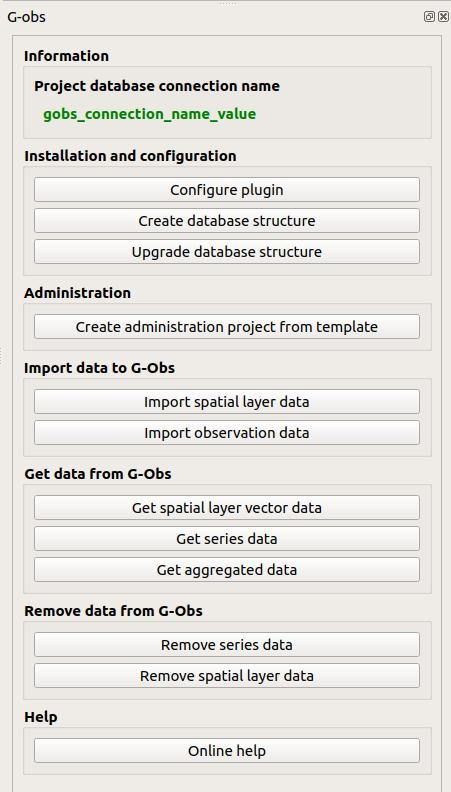
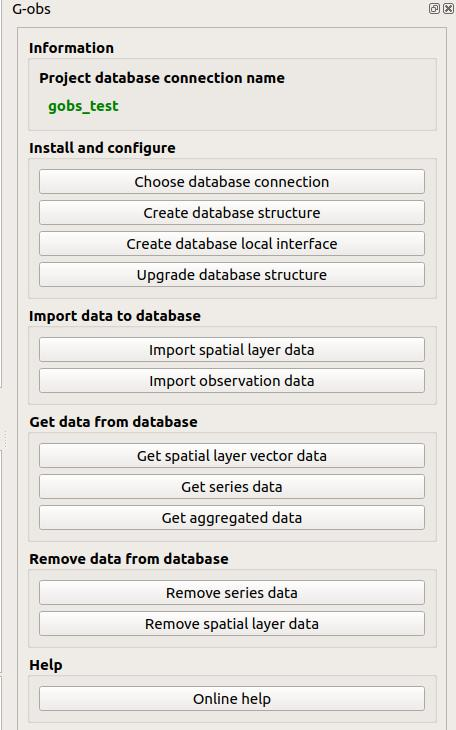
Algorithms - rename administration project creator and reorganize dock buttons

Changed region(s): [[0.0, 0.0, 0.9313, 1.0], [0.9313, 0.0, 1.0, 0.0301]]

diff --git a/docs/admin_guide/index.html b/docs/admin_guide/index.html
@@ -16,7 +16,7 @@
  <p><a href="../">Up</a></p>
 <p><a href="./index.html">Back</a></p><div class="toc"><span class="toctitle">Table of content</span><ul>
 <li><a href="#introduction">Introduction</a></li>
-<li><a href="#create-your-administration-project">Create your administration project</a></li>
+<li><a href="#create-your-database-local-interface">Create your database local interface</a></li>
 <li><a href="#edit-the-g-obs-database-metadata">Edit the G-Obs database metadata</a><ul>
 <li><a href="#actor_category">actor_category</a></li>
 <li><a href="#actor">actor</a></li>
@@ -39,7 +39,7 @@
 </ul>
 <p>See the (documentation on these concepts)(../concepts/).</p>
 <p>To go on, you must first have installed and configured the G-Obs plugin for QGIS Desktop. See the doc <a href="../installation/">G-Obs installation and configuration</a></p>
-<h2 id="create-your-administration-project">Create your administration project</h2>
+<h2 id="create-your-database-local-interface">Create your database local interface</h2>
 <p>This algorithm will create a <strong>new QGIS project file</strong> for G-Obs administration purpose.</p>
 <p>The generated QGIS project must then be opened by the administrator to create the needed metadata by using QGIS editing capabilities (actors, spatial layers information, indicators, etc.)</p>
 <p>Parameters:</p>
@@ -47,7 +47,7 @@
 <li><code>PostgreSQL connection to G-Obs database</code>: name of the database connection you would like to use for the new QGIS project.</li>
 <li><code>QGIS project file to create</code>: choose the output file destination.</li>
 </ul>
-<p><img alt="Create administration project" src="../media/gobs_create_administration_project_from_template.jpg"></p>
+<p><img alt="Create administration project" src="../media/gobs_create_database_local_interface.jpg"></p>
 <h2 id="edit-the-g-obs-database-metadata">Edit the G-Obs database metadata</h2>
 <p>The <strong>administration project</strong> created beforehand will allow the administrator to <strong>create, modify and delete metadata</strong> in the G-Obs database. As an administrator, you must open this project with QGIS.</p>
 <p>Be sure you have a working connection between your computer and the database server.</p>

diff --git a/docs/installation/index.html b/docs/installation/index.html
@@ -42,7 +42,7 @@
 <li>open QGIS <strong>Plugin manager</strong> (menu Plugins)</li>
 <li>in the <strong>Parameters</strong> tab, add a new plugin repository name <strong>G-Obs</strong> with the URL: <a href="https://github.com/3liz/qgis-gobs-plugin/releases/latest/download/plugins.xml">https://github.com/3liz/qgis-gobs-plugin/releases/latest/download/plugins.xml</a></li>
 </ul>
-<p><img alt="G-Obs dock panel" src="../media/gobs_install_plugin_1.jpg"></p>
+<p><img alt="G-Obs install plugin" src="../media/gobs_install_plugin.png"></p>
 <ul>
 <li>In the <strong>All</strong> tab, search for the word <code>obs</code> and install the <strong>G-Obs</strong> plugin.</li>
 </ul>

diff --git a/gobs/processing/algorithms/create_database_local_interface.py b/gobs/processing/algorithms/create_database_local_interface.py
@@ -8,19 +8,19 @@ from qgis.core import (
     QgsProcessingParameterFileDestination,
     QgsProcessingOutputString,
     QgsProcessingOutputNumber,
+    QgsExpressionContextUtils,
 )
 
 from gobs.qgis_plugin_tools.tools.i18n import tr
 from gobs.qgis_plugin_tools.tools.algorithm_processing import BaseProcessingAlgorithm
-from gobs.qgis_plugin_tools.tools.resources import plugin_path
 
 from .tools import (
     getPostgisConnectionList,
-    getPostgisConnectionUriFromName,
+    createAdministrationProjectFromTemplate,
 )
 
 
-class CreateAdministrationProjectFromTemplate(BaseProcessingAlgorithm):
+class CreateDatabaseLocalInterface(BaseProcessingAlgorithm):
 
     CONNECTION_NAME = 'CONNECTION_NAME'
     PROJECT_FILE = 'PROJECT_FILE'
@@ -29,10 +29,10 @@ class CreateAdministrationProjectFromTemplate(BaseProcessingAlgorithm):
     OUTPUT_STRING = 'OUTPUT_STRING'
 
     def name(self):
-        return 'create_administration_project_from_template'
+        return 'create_database_local_interface'
 
     def displayName(self):
-        return tr('Create administration project')
+        return tr('Create database local interface')
 
     def group(self):
         return tr('Administration')
@@ -103,43 +103,42 @@ class CreateAdministrationProjectFromTemplate(BaseProcessingAlgorithm):
         # Check that the connection name has been configured
         connection_name = parameters[self.CONNECTION_NAME]
         if not connection_name:
-            return False, tr('You must use the "Configure G-obs plugin" alg to set the database connection name')
+            return False, tr(
+                'You must use the "Configure G-obs plugin" alg to set the database connection name'
+            )
 
         # Check that it corresponds to an existing connection
         if connection_name not in getPostgisConnectionList():
             return False, tr('The configured connection name does not exists in QGIS')
 
-        return super(CreateAdministrationProjectFromTemplate, self).checkParameterValues(parameters, context)
+        # Check if the target project file ends with qgs
+        project_file = self.parameterAsString(parameters, self.PROJECT_FILE, context)
+        if not project_file.endswith('.qgs'):
+            return False, tr('The QGIS project file name must end with extension ".qgs"')
+
+        # Check if the current project is an administration project
+        # and if it is already configured for the chosen connection name
+        p_connection_name = QgsExpressionContextUtils.projectScope(context.project()).variable('gobs_connection_name')
+        admin_project = QgsExpressionContextUtils.projectScope(context.project()).variable('gobs_is_admin_project')
+        if admin_project == 'yes' and connection_name == p_connection_name:
+            return False, tr(
+                'The current QGIS project is already an administration project '
+                'configured for the chosen database connection'
+            )
+
+        return super(CreateDatabaseLocalInterface, self).checkParameterValues(parameters, context)
 
     def processAlgorithm(self, parameters, context, feedback):
 
         # Database connection parameters
         connection_name = parameters[self.CONNECTION_NAME]
-        uri = getPostgisConnectionUriFromName(connection_name)
-        connection_info = uri.connectionInfo()
-
-        # Read in the template file
-        template_file = plugin_path('qgis', 'gobs_manager.qgs')
-
-        with open(template_file, 'r') as fin:
-            filedata = fin.read()
-
-        # Replace the database connection information
-        filedata = filedata.replace(
-            "service='gobs'",
-            connection_info
-        )
-
-        # Replace also the QGIS project variable
-        filedata = filedata.replace(
-            "gobs_connection_name_value",
-            connection_name
-        )
 
         # Write the file out again
         project_file = self.parameterAsString(parameters, self.PROJECT_FILE, context)
-        with open(project_file, 'w') as fout:
-            fout.write(filedata)
+        createAdministrationProjectFromTemplate(
+            connection_name,
+            project_file
+        )
 
         msg = tr('QGIS Administration project has been successfully created from database connection')
         msg+= ': {}'.format(connection_name)

diff --git a/gobs/processing/algorithms/tools.py b/gobs/processing/algorithms/tools.py
@@ -4,6 +4,7 @@ __email__ = "info@3liz.org"
 __revision__ = "$Format:%H$"
 
 from gobs.qgis_plugin_tools.tools.i18n import tr
+from gobs.qgis_plugin_tools.tools.resources import plugin_path
 from qgis.core import QgsSettings
 from processing.tools.postgis import uri_from_name
 
@@ -140,3 +141,33 @@ def getVersionInteger(f):
     and sorting the upgrade files
     """
     return ''.join([a.zfill(2) for a in f.strip().split('.')])
+
+
+def createAdministrationProjectFromTemplate(connection_name, project_file_path):
+    """
+    Creates a new administration project from template
+    for the given connection name
+    to the given target path
+    """
+    # Get connection information
+    uri = getPostgisConnectionUriFromName(connection_name)
+    connection_info = uri.connectionInfo()
+
+    # Read in the template file
+    template_file = plugin_path('qgis', 'gobs_administration.qgs')
+    with open(template_file, 'r') as fin:
+        filedata = fin.read()
+
+    # Replace the database connection information
+    filedata = filedata.replace(
+        "service='gobs'",
+        connection_info
+    )
+
+    # Replace also the QGIS project variable
+    filedata = filedata.replace(
+        "gobs_connection_name_value",
+        connection_name
+    )
+    with open(project_file_path, 'w') as fout:
+        fout.write(filedata)

diff --git a/gobs/processing/provider.py b/gobs/processing/provider.py
@@ -20,7 +20,7 @@ from .algorithms.import_spatial_layer_data import ImportSpatialLayerData
 from .algorithms.upgrade_database_structure import UpgradeDatabaseStructure
 from .algorithms.remove_series_data import RemoveSeriesData
 from .algorithms.remove_spatial_layer_data import RemoveSpatialLayerData
-from .algorithms.create_administration_project_from_template import CreateAdministrationProjectFromTemplate
+from .algorithms.create_database_local_interface import CreateDatabaseLocalInterface
 
 from gobs.qgis_plugin_tools.tools.i18n import tr
 from gobs.qgis_plugin_tools.tools.resources import resources_path
@@ -42,7 +42,7 @@ class GobsProvider(QgsProcessingProvider):
         self.addAlgorithm(CreateDatabaseStructure())
         self.addAlgorithm(UpgradeDatabaseStructure())
 
-        self.addAlgorithm(CreateAdministrationProjectFromTemplate())
+        self.addAlgorithm(CreateDatabaseLocalInterface())
 
         self.addAlgorithm(ImportSpatialLayerData())
         self.addAlgorithm(GetSpatialLayerVectorData())

diff --git a/gobs/processing/algorithms/import_observation_data.py b/gobs/processing/algorithms/import_observation_data.py
@@ -440,9 +440,16 @@ class ImportObservationData(BaseProcessingAlgorithm):
                         field_timestamp,
                         caster
                     )
+
+            # We use the unique constraint to override or not the data
+            # "observation_data_unique" UNIQUE CONSTRAINT, btree (fk_id_series, fk_id_spatial_object, ob_timestamp)
+            # ob_validation is automatically set by the trigger gobs.trg_after_import_validation()
+            # to now() when the import is validated
             sql = '''
-                INSERT INTO gobs.observation AS o
-                (fk_id_series, fk_id_spatial_object, fk_id_import, ob_value, ob_timestamp)
+                INSERT INTO gobs.observation AS o (
+                    fk_id_series, fk_id_spatial_object, fk_id_import,
+                    ob_value, ob_timestamp
+                )
                 SELECT
                 -- id of the serie
                 {id_serie},

diff --git a/gobs/gobs_dockwidget.py b/gobs/gobs_dockwidget.py
@@ -55,7 +55,7 @@ class GobsDockWidget(QtWidgets.QDockWidget, FORM_CLASS):
             'create_database_structure',
             'upgrade_database_structure',
 
-            'create_administration_project_from_template',
+            'create_database_local_interface',
 
             'import_spatial_layer_data',
 
@@ -124,7 +124,7 @@ class GobsDockWidget(QtWidgets.QDockWidget, FORM_CLASS):
             'import_observation_data',
         ]
         for but in all_buttons:
-            if but in ('configure_plugin', 'create_administration_project_from_template'):
+            if but in ('configure_plugin', 'create_database_local_interface'):
                 continue
             button = self.findChild(QPushButton, 'button_{0}'.format(but))
             if not button:

diff --git a/docs/admin_guide/README.md b/docs/admin_guide/README.md
@@ -21,7 +21,7 @@ See the (documentation on these concepts)(../concepts/).
 
 To go on, you must first have installed and configured the G-Obs plugin for QGIS Desktop. See the doc [G-Obs installation and configuration](../installation/)
 
-## Create your administration project
+## Create your database local interface
 
 This algorithm will create a **new QGIS project file** for G-Obs administration purpose.
 
@@ -32,7 +32,7 @@ Parameters:
 * `PostgreSQL connection to G-Obs database`: name of the database connection you would like to use for the new QGIS project.
 * `QGIS project file to create`: choose the output file destination.
 
-![Create administration project](../media/gobs_create_administration_project_from_template.jpg)
+![Create administration project](../media/gobs_create_database_local_interface.jpg)
 
 ## Edit the G-Obs database metadata
 

diff --git a/docs/installation/README.md b/docs/installation/README.md
@@ -30,7 +30,7 @@ At present, G-Obs is not yet in QGIS official plugin repository. To install the 
 * open QGIS **Plugin manager** (menu Plugins)
 * in the **Parameters** tab, add a new plugin repository name **G-Obs** with the URL: https://github.com/3liz/qgis-gobs-plugin/releases/latest/download/plugins.xml
 
-![G-Obs dock panel](../media/gobs_install_plugin_1.jpg)
+![G-Obs install plugin](../media/gobs_install_plugin.png)
 
 * In the **All** tab, search for the word `obs` and install the **G-Obs** plugin.
 
